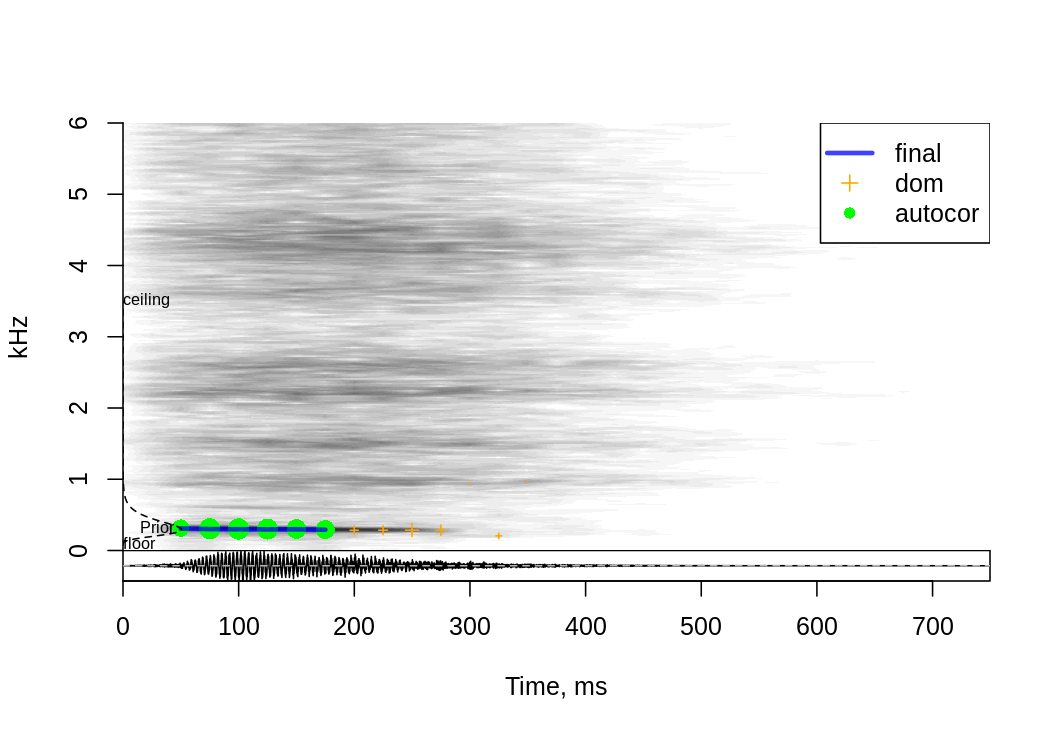
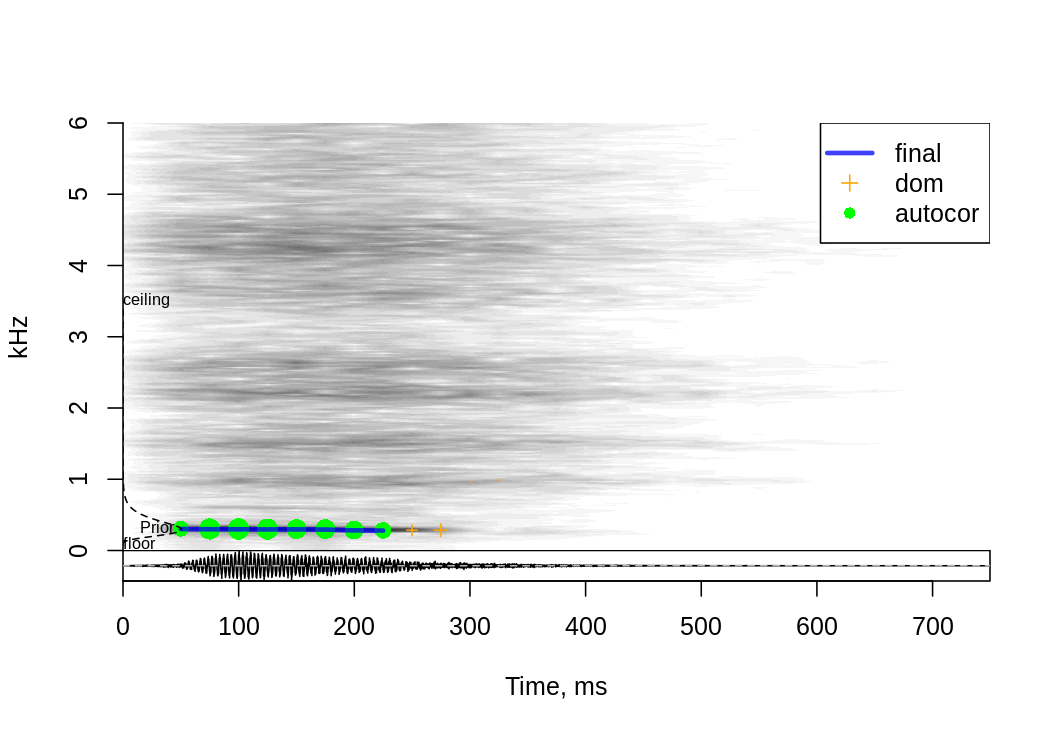
updated readme

diff --git a/README.md b/README.md
@@ -82,11 +82,11 @@ a = analyze(s, 44100, ylim = c(0, 6))
 ``` r
 a[1:5, c('pitch', 'peakFreq', 'harmHeight', 'HNR', 'ampl', 'loudness')]
 #>      pitch peakFreq harmHeight       HNR       ampl loudness
-#> 1       NA       NA         NA        NA 0.03005605       NA
-#> 2 308.5318 305.2747   893.8257  5.598363 0.17984718 11.36521
-#> 3 300.2192 305.2747  1039.5937 12.390081 0.40529714 19.41330
-#> 4 297.9419 305.2747  1185.3618 13.032622 0.52651630 23.05778
-#> 5 296.3404 305.2747  1672.8688 11.223180 0.48225848 22.56476
+#> 1       NA       NA         NA        NA 0.02604963       NA
+#> 2 301.0468 305.2747   595.0474  3.913915 0.15780607 10.54735
+#> 3 298.1527 305.2747   596.3055 12.613324 0.36012953 18.57986
+#> 4 297.5237 305.2747   595.0474 13.537997 0.48173022 22.58042
+#> 5 296.0084 305.2747   813.8656 12.078614 0.46387642 21.87924
 colnames(a)
 #>  [1] "duration"           "duration_noSilence" "time"               "ampl"              
 #>  [5] "amplVoiced"         "dom"                "entropy"            "f1_freq"           
